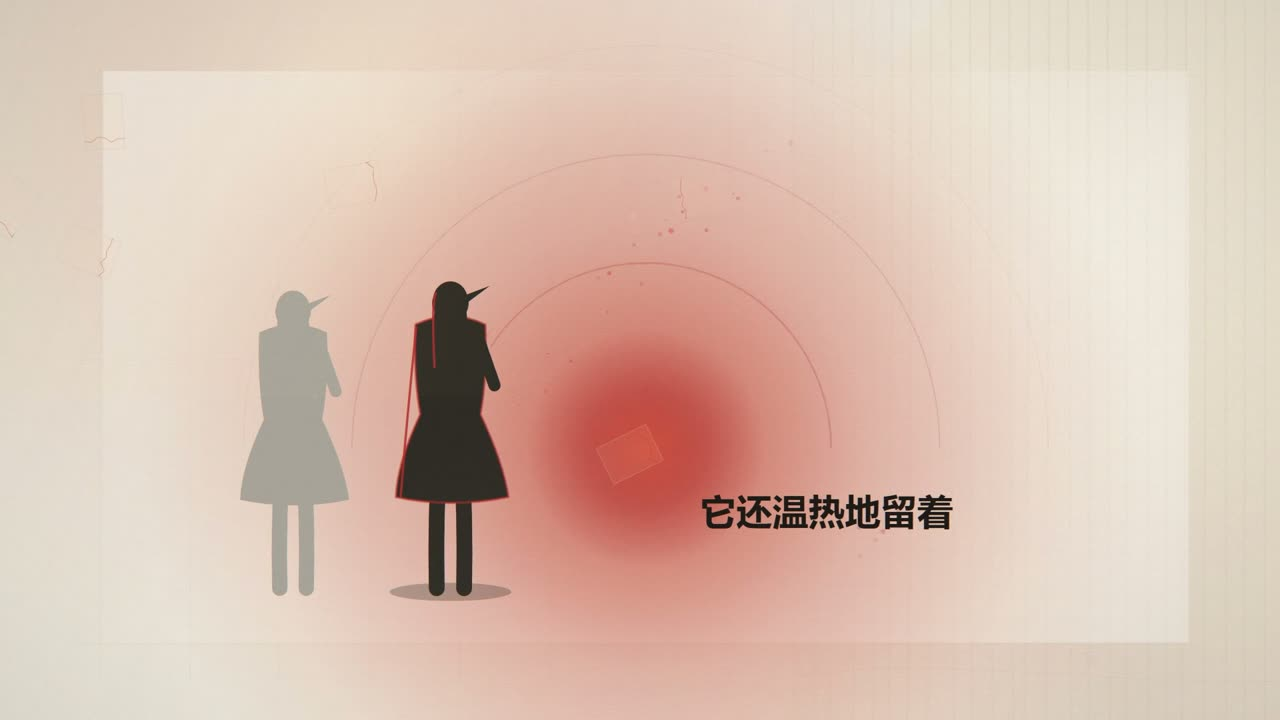
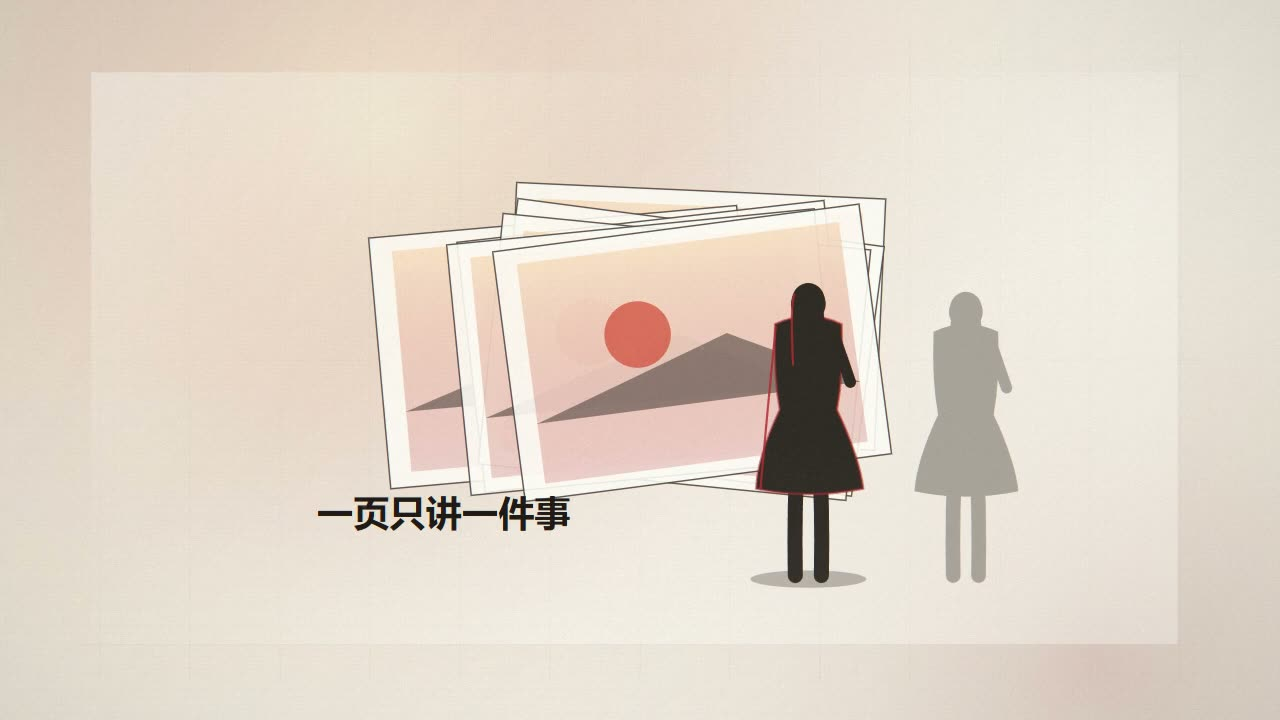
docs: 预览换成仓库内可复现的合成演示
原预览截自 lulu 成片，那份素材是别人歌曲的衍生作品，只换音频解决不了。
现在整段预览都由本仓库生成：

- 画面：assets/skeleton + 4 行镜头表（field / rain / frames / calendar），
  一镜一小节，全部 warm-paper 主题
- 音轨：docs/demo-audio.py 合成 8s / 120 BPM / D 小调循环，纯 Python 标准库，
  无采样、无外部音频文件
- 文案：四行自写，讲的是这套版面纪律本身，不引用任何歌词

五个验收数字全过：shots 4 / average 2.00s / subtitles 4/4 / 无母题重复 /
无窄于 0.40 的字幕盒；成片 channels=2 已核。

docs/demo.md 记录了完整复现步骤与 GIF 压缩参数的取舍。

diff --git a/docs/demo-audio.py b/docs/demo-audio.py
@@ -1,0 +1,170 @@
+#!/usr/bin/env python3
+"""合成 README 预览 GIF 用的 8 秒演示音轨。
+
+为什么是合成而不是找素材：这样音轨的版权 100% 属于仓库作者，不存在
+「这个 CC0 到底能不能商用」「署名格式对不对」的后患。脚本随仓库发布，
+任何人跑一遍都能得到逐样本相同的 wav。
+
+120 BPM × 4 小节 = 8.0 秒，正好够 4 个镜头、每镜 1 小节。
+
+    调性  D 小调，四小节循环 Dm - B♭ - F - C
+    织体  慢起音的和声垫 + 每拍一记木质脉冲 + 小节头一枚钟音
+    声像  和声垫各声部左右分开，脉冲居中
+    混响  三梳状 + 一全通（Schroeder），湿声 22%
+
+用法：
+    python demo-audio.py out.wav
+"""
+import array
+import math
+import random
+import struct
+import sys
+import wave
+
+SR = 44100
+BPM = 120
+BEAT = 60.0 / BPM          # 0.5 s
+BAR = 4 * BEAT             # 2.0 s
+BARS = 4
+DUR = BAR * BARS           # 8.0 s
+N = int(SR * DUR)
+TAU = 2 * math.pi
+
+# 每小节的四个声部（根音 / 五度 / 八度 / 三音），频率单位 Hz
+CHORDS = [
+    [146.83, 220.00, 293.66, 349.23],   # Dm
+    [116.54, 174.61, 233.08, 293.66],   # Bb
+    [ 87.31, 130.81, 174.61, 220.00],   # F
+    [130.81, 196.00, 261.63, 329.63],   # C
+]
+
+L = [0.0] * N
+R = [0.0] * N
+
+
+def rc_fade(x, length):
+    """升余弦淡入淡出，避免爆音。"""
+    return 0.5 - 0.5 * math.cos(math.pi * min(1.0, x / length))
+
+
+def pad(f0, t0, t1, amp, pan, detune_cents=0.0):
+    """慢起音和声垫：正弦 + 微弱二次谐波，带 0.55 Hz 颤音。"""
+    f = f0 * (2 ** (detune_cents / 1200.0))
+    i0, i1 = max(0, int(t0 * SR)), min(N, int(t1 * SR))
+    gl, gr = math.sqrt(1 - pan), math.sqrt(pan)
+    a, r = 0.70, 0.90                       # 起音 / 释放（秒）
+    for i in range(i0, i1):
+        t = i / SR - t0
+        e = min(rc_fade(t, a), rc_fade((t1 - t0) - t, r))
+        if e <= 0.0:
+            continue
+        vib = 1.0 + 0.0016 * math.sin(TAU * 0.55 * t)
+        s = math.sin(TAU * f * vib * t) + 0.22 * math.sin(TAU * 2 * f * vib * t)
+        s *= amp * e
+        L[i] += s * gl
+        R[i] += s * gr
+
+
+def pluck(t0, amp, pan, f=95.0, tau=0.045):
+    """木质脉冲：低频正弦 + 一小段噪声瞬态，指数衰减。"""
+    i0, i1 = int(t0 * SR), min(N, int((t0 + 0.16) * SR))
+    gl, gr = math.sqrt(1 - pan), math.sqrt(pan)
+    rnd = random.Random(1234)
+    for i in range(i0, i1):
+        t = (i - i0) / SR
+        env = math.exp(-t / tau)
+        s = math.sin(TAU * f * t) * env
+        if t < 0.006:                        # 起振的一点点噪声，给它"木头感"
+            s += (rnd.random() * 2 - 1) * (1 - t / 0.006) * 0.35
+        s *= amp
+        L[i] += s * gl
+        R[i] += s * gr
+
+
+def bell(t0, f, amp, pan, tau=0.34):
+    """小节头的钟音：两个不成整数比的分音，听起来才不像纯正弦。"""
+    i0, i1 = int(t0 * SR), min(N, int((t0 + 1.2) * SR))
+    gl, gr = math.sqrt(1 - pan), math.sqrt(pan)
+    for i in range(i0, i1):
+        t = (i - i0) / SR
+        s = (math.sin(TAU * f * t) * math.exp(-t / tau)
+             + 0.5 * math.sin(TAU * f * 2.76 * t) * math.exp(-t / (tau * 0.55)))
+        s *= amp * min(1.0, t / 0.004)
+        L[i] += s * gl
+        R[i] += s * gr
+
+
+# ---- 编排 -------------------------------------------------------------------
+PANS = [0.30, 0.62, 0.44, 0.74]            # 四个声部摊开在声场里
+for b in range(BARS):
+    t0 = b * BAR
+    chord = CHORDS[b]
+    for k, f in enumerate(chord):
+        det = (-4.0, 3.0, -2.0, 5.0)[k]     # 轻微失谐，比齐奏暖
+        pad(f, t0 - 0.12, t0 + BAR + 0.38, 0.085 if k else 0.105, PANS[k], det)
+    bell(t0, chord[0] * 4, 0.045, 0.70 if b % 2 else 0.28)
+    for beat in range(4):
+        tb = t0 + beat * BEAT
+        pluck(tb, 0.20 if beat == 0 else 0.115, 0.50)
+
+
+# ---- 混响（Schroeder：并联梳状 + 串联全通）-----------------------------------
+def comb(x, delay_s, fb):
+    d = int(delay_s * SR)
+    buf = [0.0] * d
+    p, out = 0, [0.0] * len(x)
+    for i, v in enumerate(x):
+        y = buf[p]
+        buf[p] = v + y * fb
+        out[i] = y
+        p = (p + 1) % d
+    return out
+
+
+def allpass(x, delay_s, g=0.5):
+    d = int(delay_s * SR)
+    buf = [0.0] * d
+    p, out = 0, [0.0] * len(x)
+    for i, v in enumerate(x):
+        b = buf[p]
+        y = -g * v + b
+        buf[p] = v + g * y
+        out[i] = y
+        p = (p + 1) % d
+    return out
+
+
+def reverb(chan, spread):
+    acc = [0.0] * len(chan)
+    for ds, fb in ((0.0297, 0.72), (0.0371, 0.70), (0.0411, 0.68)):
+        c = comb(chan, ds + spread, fb)
+        for i, v in enumerate(c):
+            acc[i] += v / 3.0
+    return allpass(allpass(acc, 0.0050 + spread, 0.5), 0.0017, 0.5)
+
+
+WL, WR = reverb(L, 0.0), reverb(R, 0.0007)   # 左右用不同延迟，声场才不是一个点
+
+WET = 0.22
+FADE_IN, FADE_OUT = 0.18, 0.75
+frames = array.array("h")
+for i in range(N):
+    t = i / SR
+    gl = rc_fade(t, FADE_IN) if t < FADE_IN else 1.0
+    gr = rc_fade(DUR - t, FADE_OUT) if t > DUR - FADE_OUT else 1.0
+    g = gl * gr
+    l = (L[i] + WL[i] * WET) * g
+    r = (R[i] + WR[i] * WET) * g
+    l, r = math.tanh(l * 1.6), math.tanh(r * 1.6)       # 软限幅，避免削顶
+    frames.append(int(max(-1.0, min(1.0, l)) * 32000))
+    frames.append(int(max(-1.0, min(1.0, r)) * 32000))
+
+out = sys.argv[1] if len(sys.argv) > 1 else "song.wav"
+with wave.open(out, "wb") as w:
+    w.setnchannels(2)
+    w.setsampwidth(2)
+    w.setframerate(SR)
+    w.writeframes(frames.tobytes())
+
+print(f"{out}: {DUR:.1f}s / {BPM} BPM / 立体声 / {SR} Hz")

diff --git a/docs/demo.md b/docs/demo.md
@@ -1,0 +1,66 @@
+# 预览是怎么做出来的
+
+`docs/preview.gif` 不是截图，是这个仓库跑出来的。任何人照着做会得到同一个结果。
+
+## 1. 音轨
+
+```bash
+python docs/demo-audio.py song.wav     # -> 8.0s / 120 BPM / 立体声 / 44100 Hz
+```
+
+纯 Python 标准库合成，没有采样、没有外部音频文件。120 BPM × 4 小节 = 8.0 秒，
+调性 D 小调，四小节循环 Dm – B♭ – F – C。因为音频是生成的，**网格真值已知**（120 BPM、
+首拍 0.000s），所以 `data/features.json` 直接用真值，而不是用 `beatgrid.cjs` 的实测值——
+后者在同一文件上量出 119.158 BPM / beat0 0.472s，0.7% 的误差在 8 秒里会漂 40ms。
+真实音乐相反：永远信测量 + `tempo_verify.cjs`。
+
+## 2. 镜头表
+
+4 个镜头，一镜一小节（2.0s），全部 `warm-paper` 主题：
+
+```js
+const THEMES = [[0, 'warm-paper']];
+
+const SHOTS = [
+  { t: 0.0, zh: '纸是米白的',     m: 'field',    p: 'walk',  f: -1, s: 0.22, x: 0.72, sec: 1 },
+  { t: 2.0, zh: '墨落下来',       m: 'rain',     p: 'stand', f:  1, s: 0.34, x: 0.30 },
+  { t: 4.0, zh: '一页只讲一件事', m: 'frames',   p: 'stand', f:  0, s: 0.40, x: 0.66, g: 1, e: 'push' },
+  { t: 6.0, zh: '翻页落在拍上',   m: 'calendar', p: 'walk',  f: -1, s: 0.30, x: 0.28, e: 'flip',
+    params: { label: '翻页' } },
+];
+```
+
+把它填进 `tools/shotlist.example.mjs` 的 `SHOTS`（复制成 `tools/build_deck.mjs`），
+`node tools/build_deck.mjs` 就会写出 `data/deck.json`，并打出五个验收数字：
+
+```
+shots 4   average 2.00s   shortest 2.00s   longest 2.00s
+motifs 4   uses/motif 1.0   subtitles 4/4   two-shots 1
+adjacent repeats: none
+one-apart repeats: none
+caption boxes under 0.40 of the frame: none
+```
+
+四行文案是**为这条演示写的**，讲的就是这套版面纪律本身：纸、墨、一页一意、翻页落在拍上。
+没有一句来自任何现有歌曲。
+
+## 3. 出片
+
+```bash
+FFMPEG_BIN=/path/to/ffmpeg node scripts/deck_smoke.mjs .    # OK — no crashes, no NaN, every page turns on a bar
+FFMPEG_BIN=/path/to/ffmpeg node export/export.mjs --start 0 --end 8 \
+  --width 1280 --height 720 --fps 30 --out out/demo.mp4
+ffprobe -v error -select_streams a:0 -show_entries stream=channels -of csv=p=0 out/demo.mp4
+# -> 2   （是 1 就用原始无损音源重混，见 references/qa-and-delivery.md §3b）
+
+ffmpeg -i out/demo.mp4 -vf "fps=8,scale=600:-1:flags=lanczos,split[a][b];[a]palettegen=max_colors=48:stats_mode=diff[p];[b][p]paletteuse=dither=bayer:bayer_scale=5:diff_mode=rectangle" -loop 0 docs/preview.gif
+```
+
+600px / 8fps / 48 色是试出来的：640px 全彩要 6.4 MB，640px / 32 色降到 3.3 MB 但渐变开始分层，
+600px / 48 色是 3.9 MB 且看不出色带。纸纹是 GIF 的天敌，抖动参数比分辨率更影响体积。
+
+## 4. 顺便修掉的一个缺陷
+
+做这条演示时发现 `src/scenes.js` 的 `calendar` 母题把「めくる」（日文"翻页"）硬编码在画面上
+——它来自这部引擎最初的日本歌项目。母题是引擎的一部分，不该把某一种语言焊进画面，
+所以现在支持 `params: { label: ... }` 覆盖，默认值保留，老 deck 渲染不变。

diff --git a/README.md b/README.md
@@ -8,10 +8,13 @@
 
 ![预览](docs/preview.gif)
 
-<p align="center"><sub>用本技能出的一部 270 秒成片（19 页 / 95 个镜头）的连续 6.5 秒。<br>
-宣纸米底 + 朱红同心圆，一实一虚两个剪影，字幕自动避让人物 —— 这三样都不在画面之外，是同一套版面纪律的产物。</sub></p>
+<p align="center"><sub>8 秒 / 4 个镜头 / 一镜一小节 —— 宣纸米底、一实一虚两个剪影、字幕自动避让人物、<br>
+翻页转场落在小节线上。这四样不是四个特效，是同一套版面纪律的四个可见结果。</sub></p>
 
-> **演示片段说明**：画面基于 Mrs. GREEN APPLE「lulu.」制作，仅用于演示本技能的版面与镜头技法，作非商业展示、已披露 AI 生成。仓库**不分发**任何音频或原曲素材。
+> **这段预览全部由仓库里的东西生成**，可以逐样本复现：
+> 画面 = `assets/skeleton` + 一张 4 行的镜头表（母题 `field` / `rain` / `frames` / `calendar`）；
+> 音轨 = `docs/demo-audio.py` 合成的 8 秒 D 小调循环（120 BPM，纯 Python 标准库，无采样、无外部音频）；
+> 文案是自己写的四行。**没有引用任何歌曲、歌词、影片或第三方素材。**
 
 ---
 
@@ -127,8 +130,10 @@ assets/
   ├── skeleton/             可复制的完整工程骨架（引擎 / 版式母版 / 导出器）
   └── ppt-themes/           五份现成的 PPT 风格 HTML，作主题取样来源
 docs/
-  ├── preview.gif           6.5s 成片预览（2.8 MB）
-  └── cover.jpg             静帧，可用作仓库 Social Preview
+  ├── preview.gif           8s 合成演示（3.9 MB，仓库内可复现）
+  ├── cover.jpg             静帧，可用作仓库 Social Preview
+  ├── demo-audio.py         生成预览音轨的合成脚本（纯标准库，无采样）
+  └── demo.md               预览的完整复现步骤与参数取舍
 ```
 
 ## 几个真踩过的坑
@@ -145,7 +150,11 @@ docs/
 
 ## 声明
 
-用别人的歌做的片子是**衍生作品**：非商业、遵守权利人自己的条款、并披露 AI 生成内容。本仓库不包含也不分发任何歌曲、音频或视频素材，`assets/ppt-themes/` 与 `assets/skeleton/` 仅含代码与版式样式。
+用别人的歌做的片子是**衍生作品**：非商业、遵守权利人自己的条款、并披露 AI 生成内容。
+
+本仓库**不分发**任何歌曲、音频或影片素材。`docs/preview.gif` 是仓库内代码渲染出来的，
+它的音轨由 `docs/demo-audio.py` 逐样本合成——没有采样、没有外部音频文件。
+`assets/ppt-themes/` 与 `assets/skeleton/` 仅含代码与版式样式。
 
 ## 许可
 
